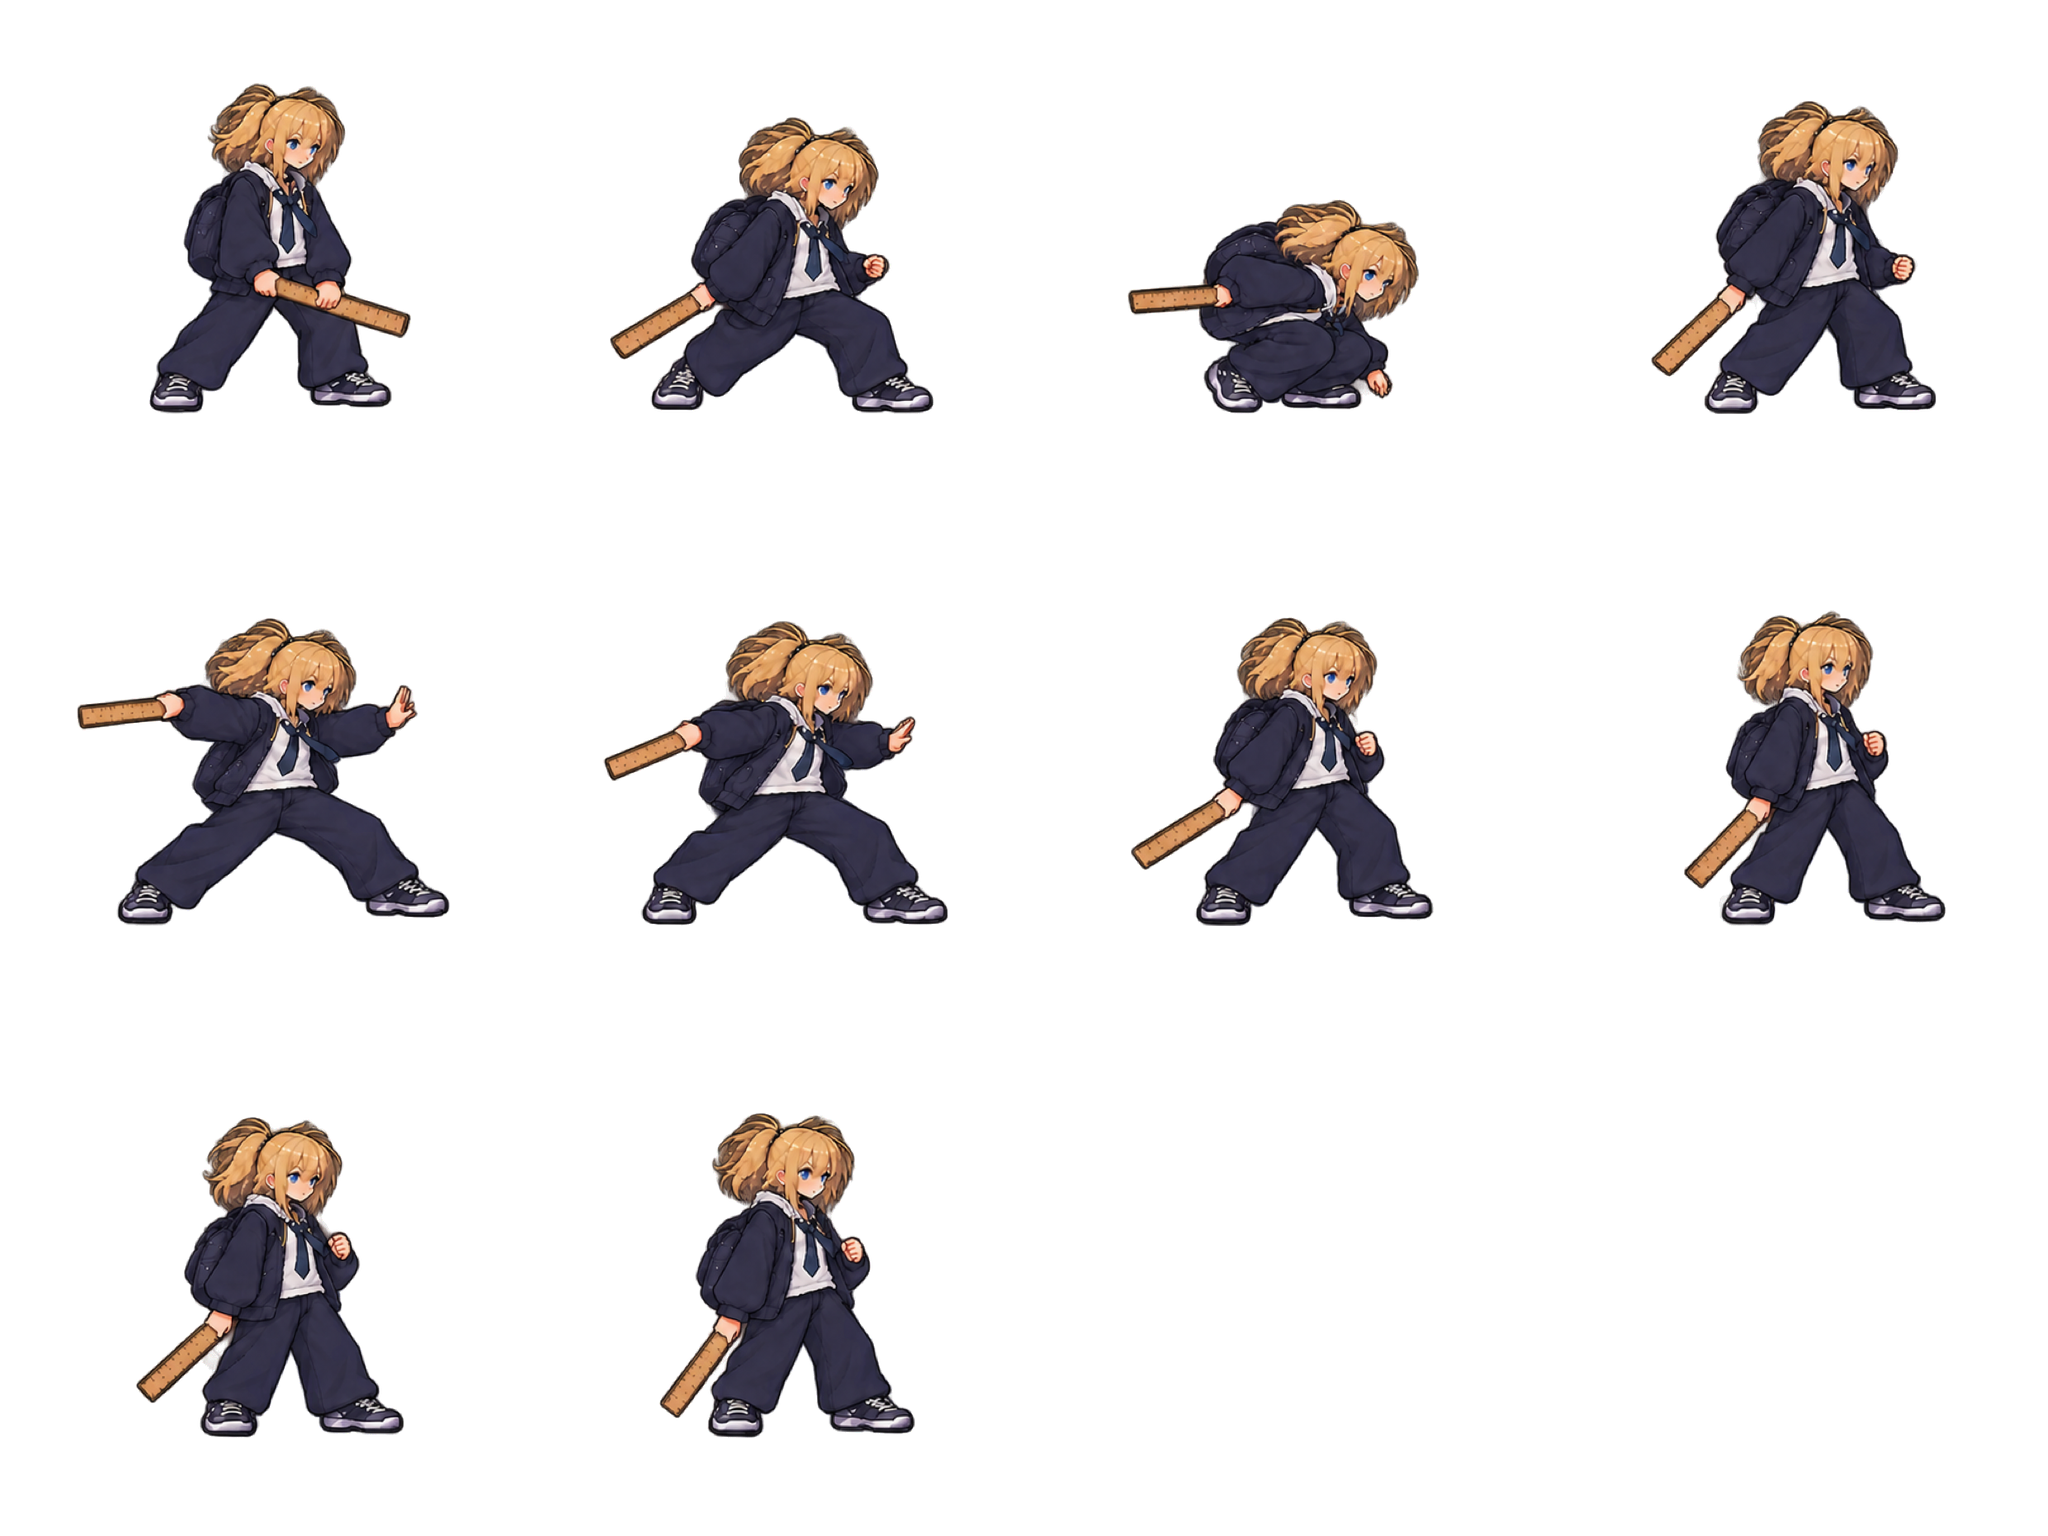
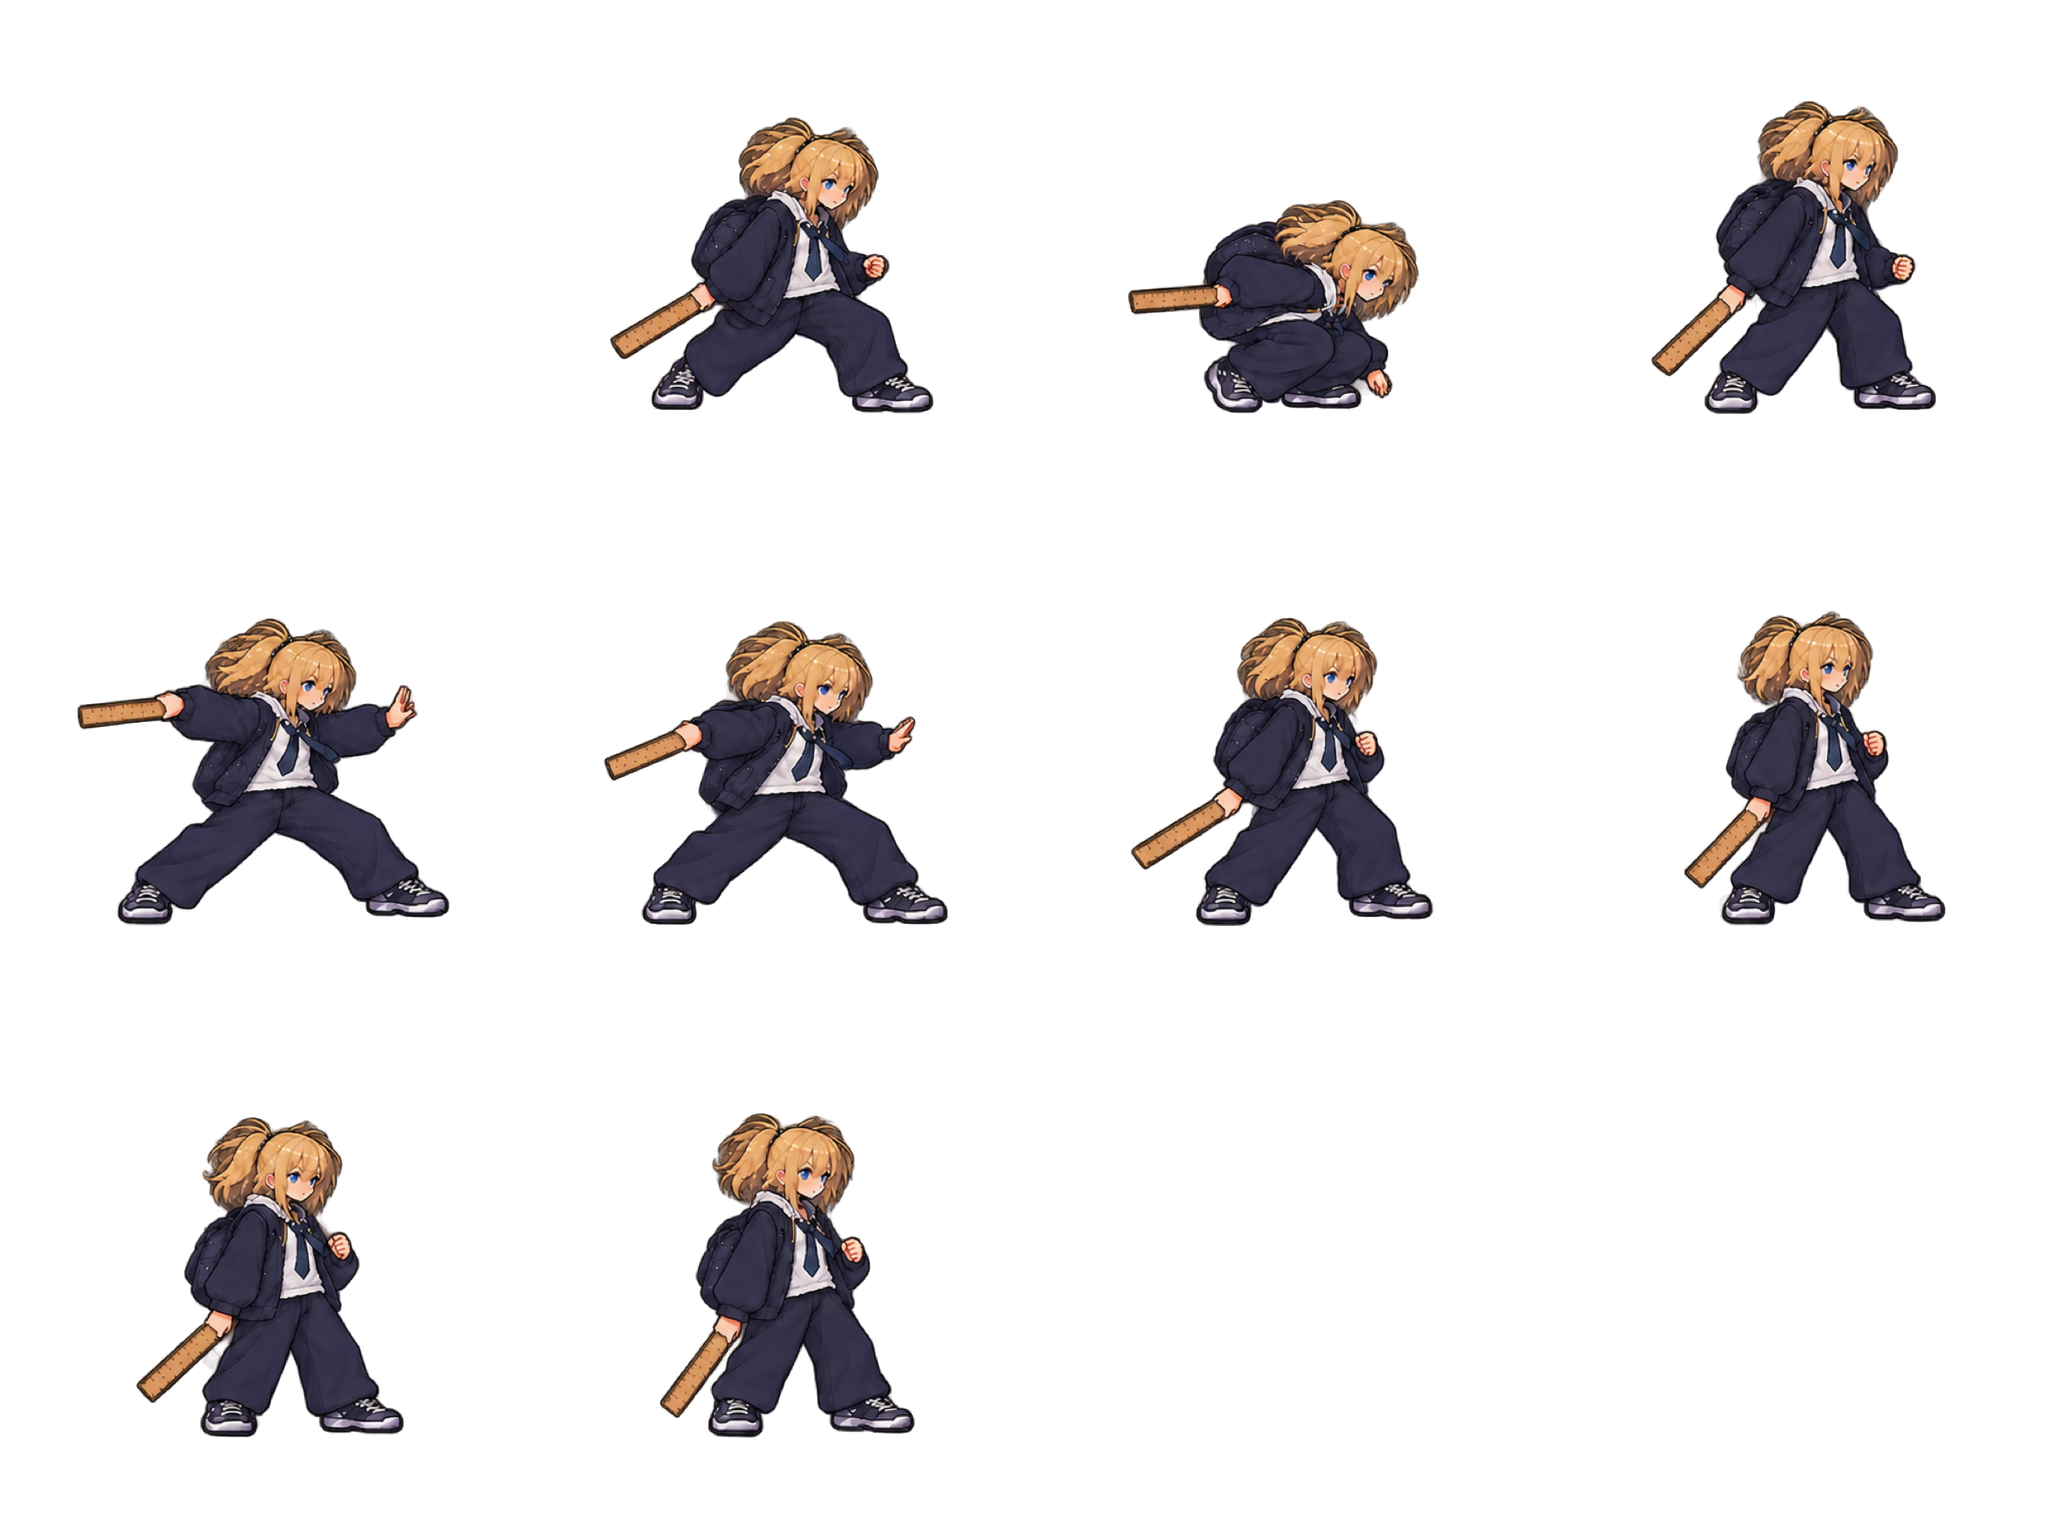
fix: quitar los cuadros que saltan del reposo y del giro de Luz
El cuadro 3 del reposo cambia la silueta del pelo y el primer cuadro del giro sostiene la regla adelante con las dos manos, lo que rompe la continuidad con el agarre de espada del reposo y la carrera.

Changed region(s): [[0.0625, 0.0312, 0.2188, 0.2812]]

diff --git a/tools/process_luz_run_turn_skid.py b/tools/process_luz_run_turn_skid.py
@@ -77,14 +77,17 @@ SHEETS = {
         "raw_columns": 4,
         "raw_rows": 2,
         "scale": None,
-        "clips": {"idle_breathing": list(range(8))},
+        # Slot 3 drops out: its hair silhouette pops against its neighbours.
+        "clips": {"idle_breathing": [0, 1, 2, 4, 5, 6, 7]},
     },
     "luz_turn_skid_sheet.png": {
         "raw_file": "luz_turn_skid_raw.png",
         "raw_columns": 4,
         "raw_rows": 3,
         "scale": FIXED_SCALE,
-        "clips": {"turn": [0, 1, 2, 3], "skid": [4, 5, 6, 7, 8, 9]},
+        # Turn slot 0 holds the ruler in front with both hands; it pops against
+        # the trailing sword grip of the idle and run clips, so the turn starts at slot 1.
+        "clips": {"turn": [1, 2, 3], "skid": [4, 5, 6, 7, 8, 9]},
     },
 }
 
